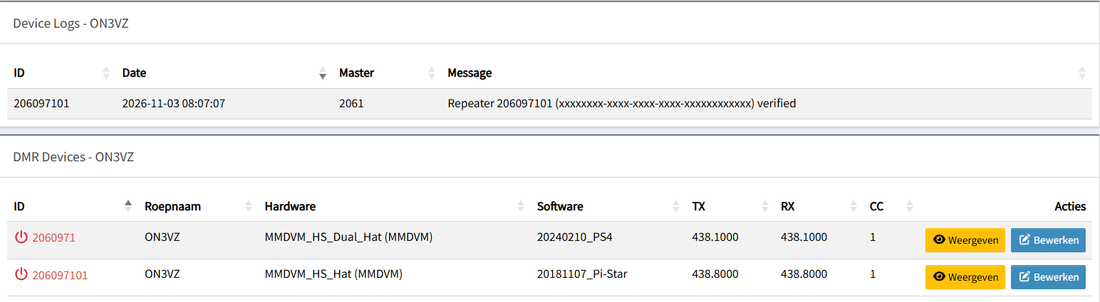
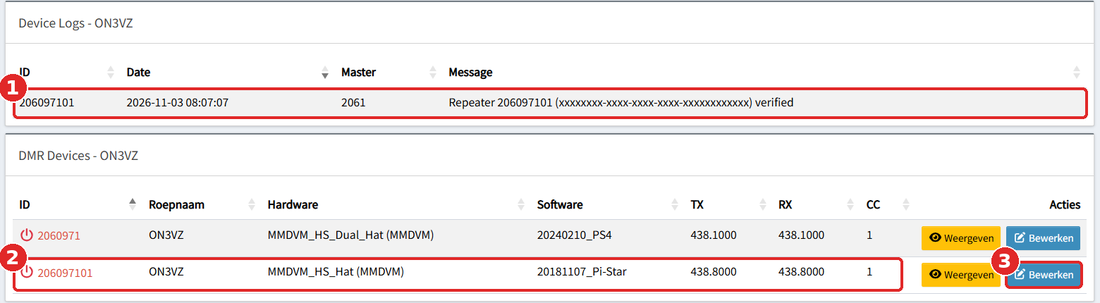
DroidStar post: numbered markers on screenshots, step plans per marker, blurred password and MAC
Revert: git revert <this commit>.

Changed region(s): [[0.0, 0.0, 1.0, 1.0], [0.0, 0.0596, 0.1236, 0.1192]]

diff --git a/_posts/2026-11-03-dmr-on-the-smartphone-droidstar.md b/_posts/2026-11-03-dmr-on-the-smartphone-droidstar.md
@@ -118,9 +118,13 @@ A Belgian guide I found (ON3BSQ, version 2024c) says that the developer no longe
 
 1. Open the **Play Store**, search for **DroidStar** and check that the developer is **Doug McLain**. Tap **Install**, then **Open**.
 2. When Android asks for the microphone, choose **Allow while using the app**. Without it you can listen, but not transmit.
-3. Open the **Log** tab once. On the first start the app downloads its host lists and the DMR ID database: you see lines like "Updated DMRHosts.txt" and "Updated DMRIDs.dat". Nothing to do there.
-4. Optional but useful: Android **Settings > Apps > DroidStar > Permissions**, and switch off **Manage app if unused** (on my phone: "App beheren indien ongebruikt"). Otherwise Android may take the microphone permission away again after a few weeks without use.
+3. Tap the **Log** tab once. On the first start the app downloads its host lists and the DMR ID database. You see lines like "Updated DMRHosts.txt" and "Updated DMRIDs.dat". Nothing to do there.
+4. Android **Settings > Apps > DroidStar > Permissions**. Check that **Microphone** is allowed (marker 1) and switch off **Manage app if unused** (marker 2, on my phone "App beheren indien ongebruikt"). Otherwise Android may take the microphone permission away again after a few weeks without use.
 </div>
+
+<figure class="dm-fig dm-phone"><img src="/assets/images/droidstar/droidstar-log-first-start.jpg" alt="DroidStar Log tab on first start: Updated P25Hosts.txt, NXDNHosts.txt, DMRHosts.txt, YSFHosts.txt, M17Hosts-full.csv, DMRIDs.dat" loading="lazy"><figcaption>Step 3: the Log tab on the first start. The app fetched its server lists by itself</figcaption></figure>
+
+<figure class="dm-fig dm-phone"><img src="/assets/images/droidstar/droidstar-permissions.jpg" alt="Android app permissions of DroidStar: Microphone allowed (marker 1) and the switch Manage app if unused (marker 2)" loading="lazy"><figcaption>Step 4: microphone allowed (1), and switch off "Manage app if unused" (2)</figcaption></figure>
 
 <figure class="dm-fig dm-phone"><img src="/assets/images/droidstar/droidstar-about.jpg" alt="DroidStar About tab: Git build 81f2c69, platform android, Qt 6.12.0, arm64, copyright 2019-2026 Doug McLain AD8DP, GPL version 2" loading="lazy"><figcaption>The About tab: the version I used and the author</figcaption></figure>
 
@@ -138,49 +142,59 @@ A Belgian guide I found (ON3BSQ, version 2024c) says that the developer no longe
 
 <div class="dm-box" markdown="1">
 <p class="dm-box-label">What we do</p>
-The Settings tab is one long page. Only a handful of fields matter for BrandMeister; most others belong to other modes or to a hardware modem. Tap a field, type, and tap Enter. The values are kept, there is no separate save button.
+The Settings tab is one long page. For BrandMeister you fill in eight things; everything else stays as it is. The numbers below match the red markers in the screenshots. Tap a field, type, and tap Enter on the keyboard. There is no save button: the values are kept.
 </div>
 
-| Field | My value | Why |
-|---|---|---|
-| Vocoder | Software vocoder | Leave it. Only change with an AMBE USB stick |
-| Modem | None | Only for an MMDVM board connected to the phone |
-| Playback, Capture | OS Default | Speaker and microphone. See [chapter 12](#ds-12) for Bluetooth |
-| Callsign | ON3VZ | |
-| DMRID | 2060971 | Your 7 digit DMR ID |
-| ESSID | **01** | Gives the app its own number, see below |
-| BM Pass | your Hotspot Security password | Typed, exactly as in SelfCare |
-| TGIF Pass, ADN Pass, ASL Pass | empty | Other networks, see [chapter 13](#ds-13) |
-| Latitude, Longitude | 0 | These are sent to BrandMeister. With 0 your exact position stays private |
-| Location | JO21EE | My Maidenhead locator. Coarse enough |
-| Description, DMR+ Opts | empty | |
-| URL | optional | I put my website there |
-| SoftwareID, PackageID | leave | Sent to BrandMeister as "software" and "hardware", see [chapter 10](#ds-10) |
-| MYCALL, URCALL, RPTR1, RPTR2, USRTXT | leave | D-STAR only. The app fills some of them itself |
-| TX Timeout | 300 | Transmission stops after 5 minutes at most |
-| Enable TX toggle mode | **on** | Tap TX once to talk, tap again to stop. No need to keep your finger on the screen |
-| Everything from RX Freq downwards | leave | Settings for an MMDVM modem |
+<div class="dm-box dm-steps" markdown="1">
+<p class="dm-box-label">Step plan: the Settings tab</p>
+
+1. **Callsign:** your callsign, for me ON3VZ.
+2. **DMRID:** your 7 digit DMR ID, for me 2060971.
+3. **ESSID:** tap the drop-down (it says "None") and choose **01**. Why: see the box below.
+4. **BM Pass:** your Hotspot Security password from BrandMeister SelfCare. **Type** it, exactly, and check that there is no space at the end. The field shows dots.
+5. **Latitude** and **Longitude:** leave both on **0**. These values are sent to BrandMeister; with 0 your exact position stays private.
+6. **Location:** your Maidenhead locator, for me JO21EE. Coarse enough.
+7. **TX Timeout:** 300 (already filled in). A transmission stops after 5 minutes at most.
+8. Scroll down: **Enable TX toggle mode** on (it was already ticked for me). Then you tap TX once to talk and once to stop, instead of keeping your finger on the screen.
+</div>
+
+<figure class="dm-fig dm-phone"><img src="/assets/images/droidstar/droidstar-settings.jpg" alt="DroidStar Settings tab with red markers: 1 Callsign ON3VZ, 2 DMRID 2060971, 3 ESSID 01, 4 BM Pass blurred, 5 Latitude and Longitude 0, 6 Location JO21EE, 7 TX Timeout 300" loading="lazy"><figcaption>Markers 1 to 7 on the Settings tab. The password field is blurred</figcaption></figure>
+
+<figure class="dm-fig dm-narrow"><img src="/assets/images/droidstar/droidstar-settings-toggle.jpg" alt="Lower part of the Settings tab with marker 8 on Enable TX toggle mode, ticked" loading="lazy"><figcaption>Marker 8, further down: Enable TX toggle mode</figcaption></figure>
 
 <div class="dm-box dm-why" markdown="1">
 <p class="dm-box-label">Why ESSID 01</p>
-My hotspot already logs in to BrandMeister with my DMR ID 2060971. If the app used the same number, the two would push each other off the network. With ESSID 01 the app logs in as **206097101**: my ID plus two digits. Every extra device gets its own number (01, 02, 03 and so on). The ESSID is only added to the device number; on the air you remain 2060971 and ON3VZ.
+My hotspot already logs in to BrandMeister with my DMR ID 2060971. If the app used the same number, the two would push each other off the network. With ESSID 01 the app logs in as **206097101**: my ID plus two digits. Every extra device gets its own number (01, 02, 03 and so on). On the air you remain 2060971 and ON3VZ.
 </div>
 
-<figure class="dm-fig dm-phone"><img src="/assets/images/droidstar/droidstar-settings.jpg" alt="DroidStar Settings tab with callsign ON3VZ, DMRID 2060971, ESSID 01, BM Pass hidden, latitude and longitude 0, location JO21EE" loading="lazy"><figcaption>My Settings tab. The password is shown as dots</figcaption></figure>
+**What you leave alone**, so you do not have to wonder:
+
+| Field | Leave on | Why |
+|---|---|---|
+| Vocoder, Modem | Software vocoder, None | Only change with an AMBE USB stick or an MMDVM board on the phone |
+| Playback, Capture | OS Default | Phone speaker and microphone. Bluetooth: see [chapter 12](#ds-12) |
+| TGIF Pass, ADN Pass, ASL Pass | empty | Other networks, see [chapter 13](#ds-13) |
+| Description, DMR+ Opts | empty | |
+| URL | optional | I put my website there |
+| SoftwareID, PackageID | as they are | Only a label in BrandMeister, see [chapter 10](#ds-10) |
+| MYCALL, URCALL, RPTR1, RPTR2, USRTXT | as they are | D-STAR only. The app fills some of them itself |
+| Everything from RX Freq downwards | as it is | Settings for an MMDVM modem |
 
 <h2 id="ds-7">7. Main: mode, host and talkgroup</h2>
 
-| Control | Value | Why |
-|---|---|---|
-| Mode | DMR | The first drop-down |
-| Slot | S2 | Default. A hotspot works on timeslot 2 as well |
-| Colour code | CC1 | Default |
-| Host | **BM_2061_Belgium** | The Belgian BrandMeister master. The list only appears after choosing DMR |
-| Private | off | Only on for the echo test, see [chapter 9](#ds-9) |
-| TGID | 9990 for the test, then 2061 | Where your transmission goes |
-| SWTX, SWRX | leave | The app ticks them itself when it connects |
-| AGC | on | Automatic level control on the receive audio |
-| Mic | 50 | My echo test worked at 50. The Belgian guide suggests 90; adjust after the echo test |
+<div class="dm-box dm-steps" markdown="1">
+<p class="dm-box-label">Step plan: the Main tab</p>
+
+1. **Mode:** tap the first drop-down ("Mode...") and choose **DMR**. Two more drop-downs appear: slot **S2** and colour code **CC1**. Leave them; a hotspot also works on timeslot 2.
+2. **Host:** tap "Host..." and choose **BM_2061_Belgium**, the Belgian BrandMeister master. The list only appears after step 1.
+3. **Private:** leave it **unticked** for now. It is only for the echo test ([chapter 9](#ds-9)).
+4. **TGID:** the talkgroup you transmit to. Type **9990** for the first test.
+5. **AGC:** tick it (automatic level control on the receive audio). SWTX and SWRX: leave them, the app ticks them itself when it connects.
+6. **Mic:** the slider for your microphone level. My echo test worked at 50. The Belgian guide suggests 90; adjust after the echo test.
+7. **Connect:** do not tap it yet, that is the next chapter.
+</div>
+
+<figure class="dm-fig dm-phone"><img src="/assets/images/droidstar/droidstar-main-setup.jpg" alt="DroidStar Main tab with red markers: 1 DMR, 2 BM_2061_Belgium, 3 Private, 4 TGID 9990, 5 AGC, 6 Mic slider, 7 Connect" loading="lazy"><figcaption>Markers 1 to 7 on the Main tab, ready to connect</figcaption></figure>
 
 <div class="dm-box dm-mean" markdown="1">
 <p class="dm-box-label">What it means</p>
@@ -192,16 +206,16 @@ My hotspot already logs in to BrandMeister with my DMR ID 2060971. If the app us
 <div class="dm-box dm-steps" markdown="1">
 <p class="dm-box-label">Step plan</p>
 
-1. On the Main tab, tap **Connect**. The button changes to **Disconnect**.
-2. Above the TX button, "Not Connected to network" becomes **Connected ping cnt** with a counter that keeps going up. That counter is the regular contact with the server.
-3. Android shows a notification: "Connected to DMR BM_2061_Belgium, 2061.master.brandmeister.network".
-4. In the **Log** tab: "Connected to DMR BM_2061_Belgium" and "Software vocoder loaded".
-5. Extra check on BrandMeister: **My Devices** (left menu, under SYSOPDASHBOARD). Under Device Logs you see "Repeater 206097101 ... verified". Your password was accepted.
+1. On the Main tab, tap **Connect**. The button changes to **Disconnect** (marker 1).
+2. At the bottom, "Not Connected to network" becomes **Connected ping cnt** with a counter that keeps going up (marker 2). That counter is the regular contact with the server.
+3. Android shows a notification: "Connected to DMR BM_2061_Belgium".
+4. Tap the **Log** tab: you see "Connected to DMR BM_2061_Belgium" and "Software vocoder loaded".
+5. Extra check on BrandMeister, see [chapter 10](#ds-10): under Device Logs, "Repeater 206097101 ... verified". Your password was accepted.
 </div>
 
-<figure class="dm-fig dm-phone"><img src="/assets/images/droidstar/droidstar-main-connected.jpg" alt="DroidStar Main tab connected: DMR, S2, CC1, BM_2061_Belgium, TGID 9990, Connected ping cnt 7" loading="lazy"><figcaption>Connected: the button now says Disconnect and the ping counter runs</figcaption></figure>
+<figure class="dm-fig dm-phone"><img src="/assets/images/droidstar/droidstar-main-connected.jpg" alt="DroidStar Main tab connected: marker 1 on the Disconnect button, marker 2 on Connected ping cnt 7" loading="lazy"><figcaption>Connected: the button says Disconnect (1) and the ping counter runs (2)</figcaption></figure>
 
-<figure class="dm-fig dm-narrow"><img src="/assets/images/droidstar/droidstar-connected-notification.jpg" alt="Android notification: DroidStar connected to DMR BM_2061_Belgium 2061.master.brandmeister.network port 62031" loading="lazy"><figcaption>The Android notification confirms the connection</figcaption></figure>
+<figure class="dm-fig dm-narrow"><img src="/assets/images/droidstar/droidstar-connected-notification.jpg" alt="Android notification: DroidStar connected to DMR BM_2061_Belgium 2061.master.brandmeister.network port 62031" loading="lazy"><figcaption>Step 3: the Android notification confirms the connection</figcaption></figure>
 
 <h2 id="ds-9">9. The echo test: a private call</h2>
 
@@ -211,16 +225,18 @@ My first echo test gave nothing back. I had put 9990 in the TGID field as a norm
 </div>
 
 <div class="dm-box dm-steps" markdown="1">
-<p class="dm-box-label">Step plan</p>
+<p class="dm-box-label">Step plan: the echo test</p>
 
-1. Main tab, connected. Tick **Private** and set TGID to **9990**.
-2. Tap the blue **TX** button once. It turns red and counts the seconds.
-3. Say "ON3VZ test, one two three" and tap TX again to stop.
-4. After a few seconds you hear yourself back through the phone speaker.
-5. Untick **Private** again before you go to a normal talkgroup. With Private on, a call to 2061 is a private call to number 2061, not a call on the talkgroup.
+1. Main tab, connected. Tick **Private** (marker 1).
+2. Check that TGID is **9990** (marker 2).
+3. Tap the blue **TX** button once (marker 4). It turns red and counts the seconds.
+4. Say "ON3VZ test, one two three" and tap TX again to stop.
+5. After a few seconds you hear yourself back through the phone speaker.
+6. Look at **GWID** (marker 3): 206097101, my ID plus ESSID 01. That is the number BrandMeister knows the app by.
+7. Untick **Private** again before you go to a normal talkgroup. With Private on, a call to 2061 is a private call to number 2061, not a call on the talkgroup.
 </div>
 
-<figure class="dm-fig dm-phone"><img src="/assets/images/droidstar/droidstar-parrot-tx.jpg" alt="DroidStar transmitting: Private ticked, TGID 9990, callsign ON3VZ Kristof, SrcID 2060971, DestID 9990, GWID 206097101, red TX button" loading="lazy"><figcaption>Transmitting to the Parrot: Private on, DestID 9990, and GWID 206097101 (my ID plus ESSID 01)</figcaption></figure>
+<figure class="dm-fig dm-phone"><img src="/assets/images/droidstar/droidstar-parrot-tx.jpg" alt="DroidStar transmitting to the Parrot: marker 1 Private ticked, 2 TGID 9990, 3 GWID 206097101, 4 red TX button counting" loading="lazy"><figcaption>Transmitting to the Parrot: Private on (1), 9990 (2), GWID (3), TX running (4)</figcaption></figure>
 
 <div class="dm-box dm-mean" markdown="1">
 <p class="dm-box-label">How to read the log</p>
@@ -236,26 +252,28 @@ My first echo test gave nothing back. I had put 9990 in the TGID field as a norm
 After the first connection, BrandMeister lists the app under **My Devices** as a new device: **206097101**, next to my hotspot 2060971. I did not have to create anything.
 </div>
 
-<figure class="dm-fig"><img src="/assets/images/droidstar/bm-my-devices-droidstar.png" alt="BrandMeister My Devices: device log 206097101 verified on master 2061, and two DMR devices, 2060971 (MMDVM_HS_Dual_Hat) and 206097101 (MMDVM_HS_Hat)" loading="lazy"><figcaption>Two devices on one DMR ID: the hotspot and the app</figcaption></figure>
+<div class="dm-box dm-steps" markdown="1">
+<p class="dm-box-label">Step plan: check the device and give it statics</p>
+
+1. On [brandmeister.network](https://brandmeister.network), left menu, at the bottom under SYSOPDASHBOARD: **My Devices**.
+2. Under **Device Logs**: "Repeater 206097101 ... verified" (marker 1). The app logged in with your password.
+3. Under **DMR Devices**: the new row **206097101** (marker 2), below your hotspot.
+4. On that row, click the blue **Bewerken** (Edit) (marker 3). Not Weergeven (View).
+5. Scroll down to **Statische gespreksgroep** (Static talkgroup). Type **206** in the white field (marker 1 in the second picture) and click the arrow **→** (marker 2). Do the same with **2061**.
+6. Both appear in the box on the right (marker 3). Refresh the page (F5): if they are still there, they are saved. There is no save button for this block.
+7. Leave the rest alone, especially the yellow buttons and the red **Delete device**.
+</div>
+
+<figure class="dm-fig"><img src="/assets/images/droidstar/bm-my-devices-droidstar.png" alt="BrandMeister My Devices with markers: 1 device log 206097101 verified, 2 the new device row 206097101, 3 the Bewerken button" loading="lazy"><figcaption>Steps 2 to 4: verified (1), the new device (2), Bewerken (3)</figcaption></figure>
+
+<figure class="dm-fig"><img src="/assets/images/droidstar/bm-static-droidstar.png" alt="BrandMeister device 206097101, block Statische gespreksgroep with markers: 1 input field, 2 arrow button, 3 list with Belgium North (2061) and Belgium (206)" loading="lazy"><figcaption>Steps 5 and 6: type the number (1), arrow (2), and the result (3)</figcaption></figure>
 
 <div class="dm-box dm-mean" markdown="1">
 <p class="dm-box-label">What it means</p>
-**Hardware, software and frequency are not real.** For 206097101 BrandMeister shows "MMDVM_HS_Hat", a software version and 438.8000 MHz. A phone has no hotspot board and no frequency. These are simply the **PackageID**, **SoftwareID** and **RX Freq** fields from the Settings tab, which DroidStar sends when it logs in (I checked this in the DroidStar source code).
+**Hardware, software and frequency are not real.** For 206097101 BrandMeister shows a hotspot board, a software version and 438.8000 MHz. A phone has none of these. They are the **PackageID**, **SoftwareID** and **RX Freq** fields from the Settings tab, which DroidStar sends when it logs in (I checked this in the DroidStar source code).
 
-**Static talkgroups are per device.** The new device starts empty: my statics 206 and 2061 on the hotspot do not apply to the app. Without statics you only hear a talkgroup after you key up on it yourself; it then stays on for about 15 minutes.
+**Static talkgroups are per device.** The new device started empty: the statics 206 and 2061 on my hotspot did not apply to the app. Without statics you only hear a talkgroup after you key up on it yourself; it then stays on for about 15 minutes.
 </div>
-
-<div class="dm-box dm-steps" markdown="1">
-<p class="dm-box-label">Step plan: statics for the app</p>
-
-1. On [brandmeister.network](https://brandmeister.network), left menu, under SYSOPDASHBOARD: **My Devices**.
-2. On the row **206097101**, click the blue **Bewerken** (Edit). Not Weergeven (View).
-3. Scroll to **Statische gespreksgroep** (Static talkgroup). Type **206**, click the arrow **→**. Type **2061**, click **→** again.
-4. Refresh the page (F5): if they are still there, they are saved.
-5. Leave the rest alone, especially the yellow buttons and the red **Delete device**.
-</div>
-
-<figure class="dm-fig"><img src="/assets/images/droidstar/bm-static-droidstar.png" alt="BrandMeister device 206097101, block Statische gespreksgroep with Belgium North (2061) and Belgium (206)" loading="lazy"><figcaption>206 and 2061 static on the app as well</figcaption></figure>
 
 <h2 id="ds-11">11. The first call on 2061 (to be tested)</h2>
 
@@ -263,12 +281,14 @@ After the first connection, BrandMeister lists the app under **My Devices** as a
 <p class="dm-box-label">Step plan</p>
 
 1. Settings: Playback and Capture on **OS Default**.
-2. Main: **Private off**, TGID **2061**, **Connect**.
+2. Main: **Private unticked** (marker 1) and TGID **2061** (marker 2). Tap **Connect**.
 3. Listen for a minute. With the statics you hear traffic on 206 and 2061 straight away. Check activity with the Last Heard filter from [Part 1]({% post_url 2026-10-29-dm1801pro-part-1-setup %}).
-4. Tap **TX** once, say "CQ Belgium, ON3VZ listening on 2061", tap again.
+4. Tap **TX** once (marker 3), say "CQ Belgium, ON3VZ listening on 2061", tap again.
 5. Wait at least 5 seconds. Contact made: keep it short and move together to a QSY talkgroup (2064 to 2069), as in [Part 2, chapter 16]({% post_url 2026-10-29-dm1801pro-part-2-daily-use %}#dm-p2-16).
 6. In BrandMeister Last Heard you see your call with 206097101 as the device.
 </div>
+
+<figure class="dm-fig dm-phone"><img src="/assets/images/droidstar/droidstar-main-2061.jpg" alt="DroidStar Main tab ready for 2061: marker 1 Private unticked, 2 TGID 2061, 3 TX button" loading="lazy"><figcaption>Ready for a normal call: Private off (1), 2061 (2), TX (3)</figcaption></figure>
 
 <h2 id="ds-12">12. Bluetooth and my Abbree speaker mic</h2>
 
@@ -281,9 +301,20 @@ In DroidStar, **Playback** and **Capture** each offer three choices: **OS Defaul
 
 <figure class="dm-fig dm-narrow"><img src="/assets/images/droidstar/droidstar-audio-choice.jpg" alt="DroidStar Settings, Playback drop-down with OS Default, Bluetooth and Built in microphone" loading="lazy"><figcaption>The audio choices in DroidStar</figcaption></figure>
 
+<div class="dm-box dm-steps" markdown="1">
+<p class="dm-box-label">Step plan: what I did</p>
+
+1. Switch the K-plug adapter **off** (its own power button) and take it out of the radio. Otherwise the mic connects to the adapter instead of the phone.
+2. Pair the Abbree with the phone: Android **Settings > Bluetooth > Pair new device**, choose "abbree".
+3. Tap the gear next to "abbree" and check that **Media audio** (marker 1) and **Phone calls** (marker 2) are both on. The second one carries the microphone.
+4. In DroidStar, Settings: **Playback** on **Bluetooth**, then Disconnect and Connect on the Main tab.
+</div>
+
+<figure class="dm-fig dm-phone"><img src="/assets/images/droidstar/abbree-bluetooth-phone.jpg" alt="Android Bluetooth settings for the paired abbree: marker 1 Media audio on, marker 2 Phone calls on; MAC address blurred" loading="lazy"><figcaption>Step 3: media audio (1) and phone calls (2) on. The MAC address is blurred</figcaption></figure>
+
 | What I tried | Result |
 |---|---|
-| Pair the Abbree with the phone (adapter switched off first), "Media audio" and "Phone calls" on | Works |
+| Pair the Abbree with the phone, media audio and phone calls on | Works |
 | DroidStar on OS Default, Abbree connected | The echo came out of the phone, not the Abbree |
 | Playback on **Bluetooth** | Sound comes out of the Abbree |
 | **PTT** on the Abbree | Does **not** key the TX button in DroidStar |
